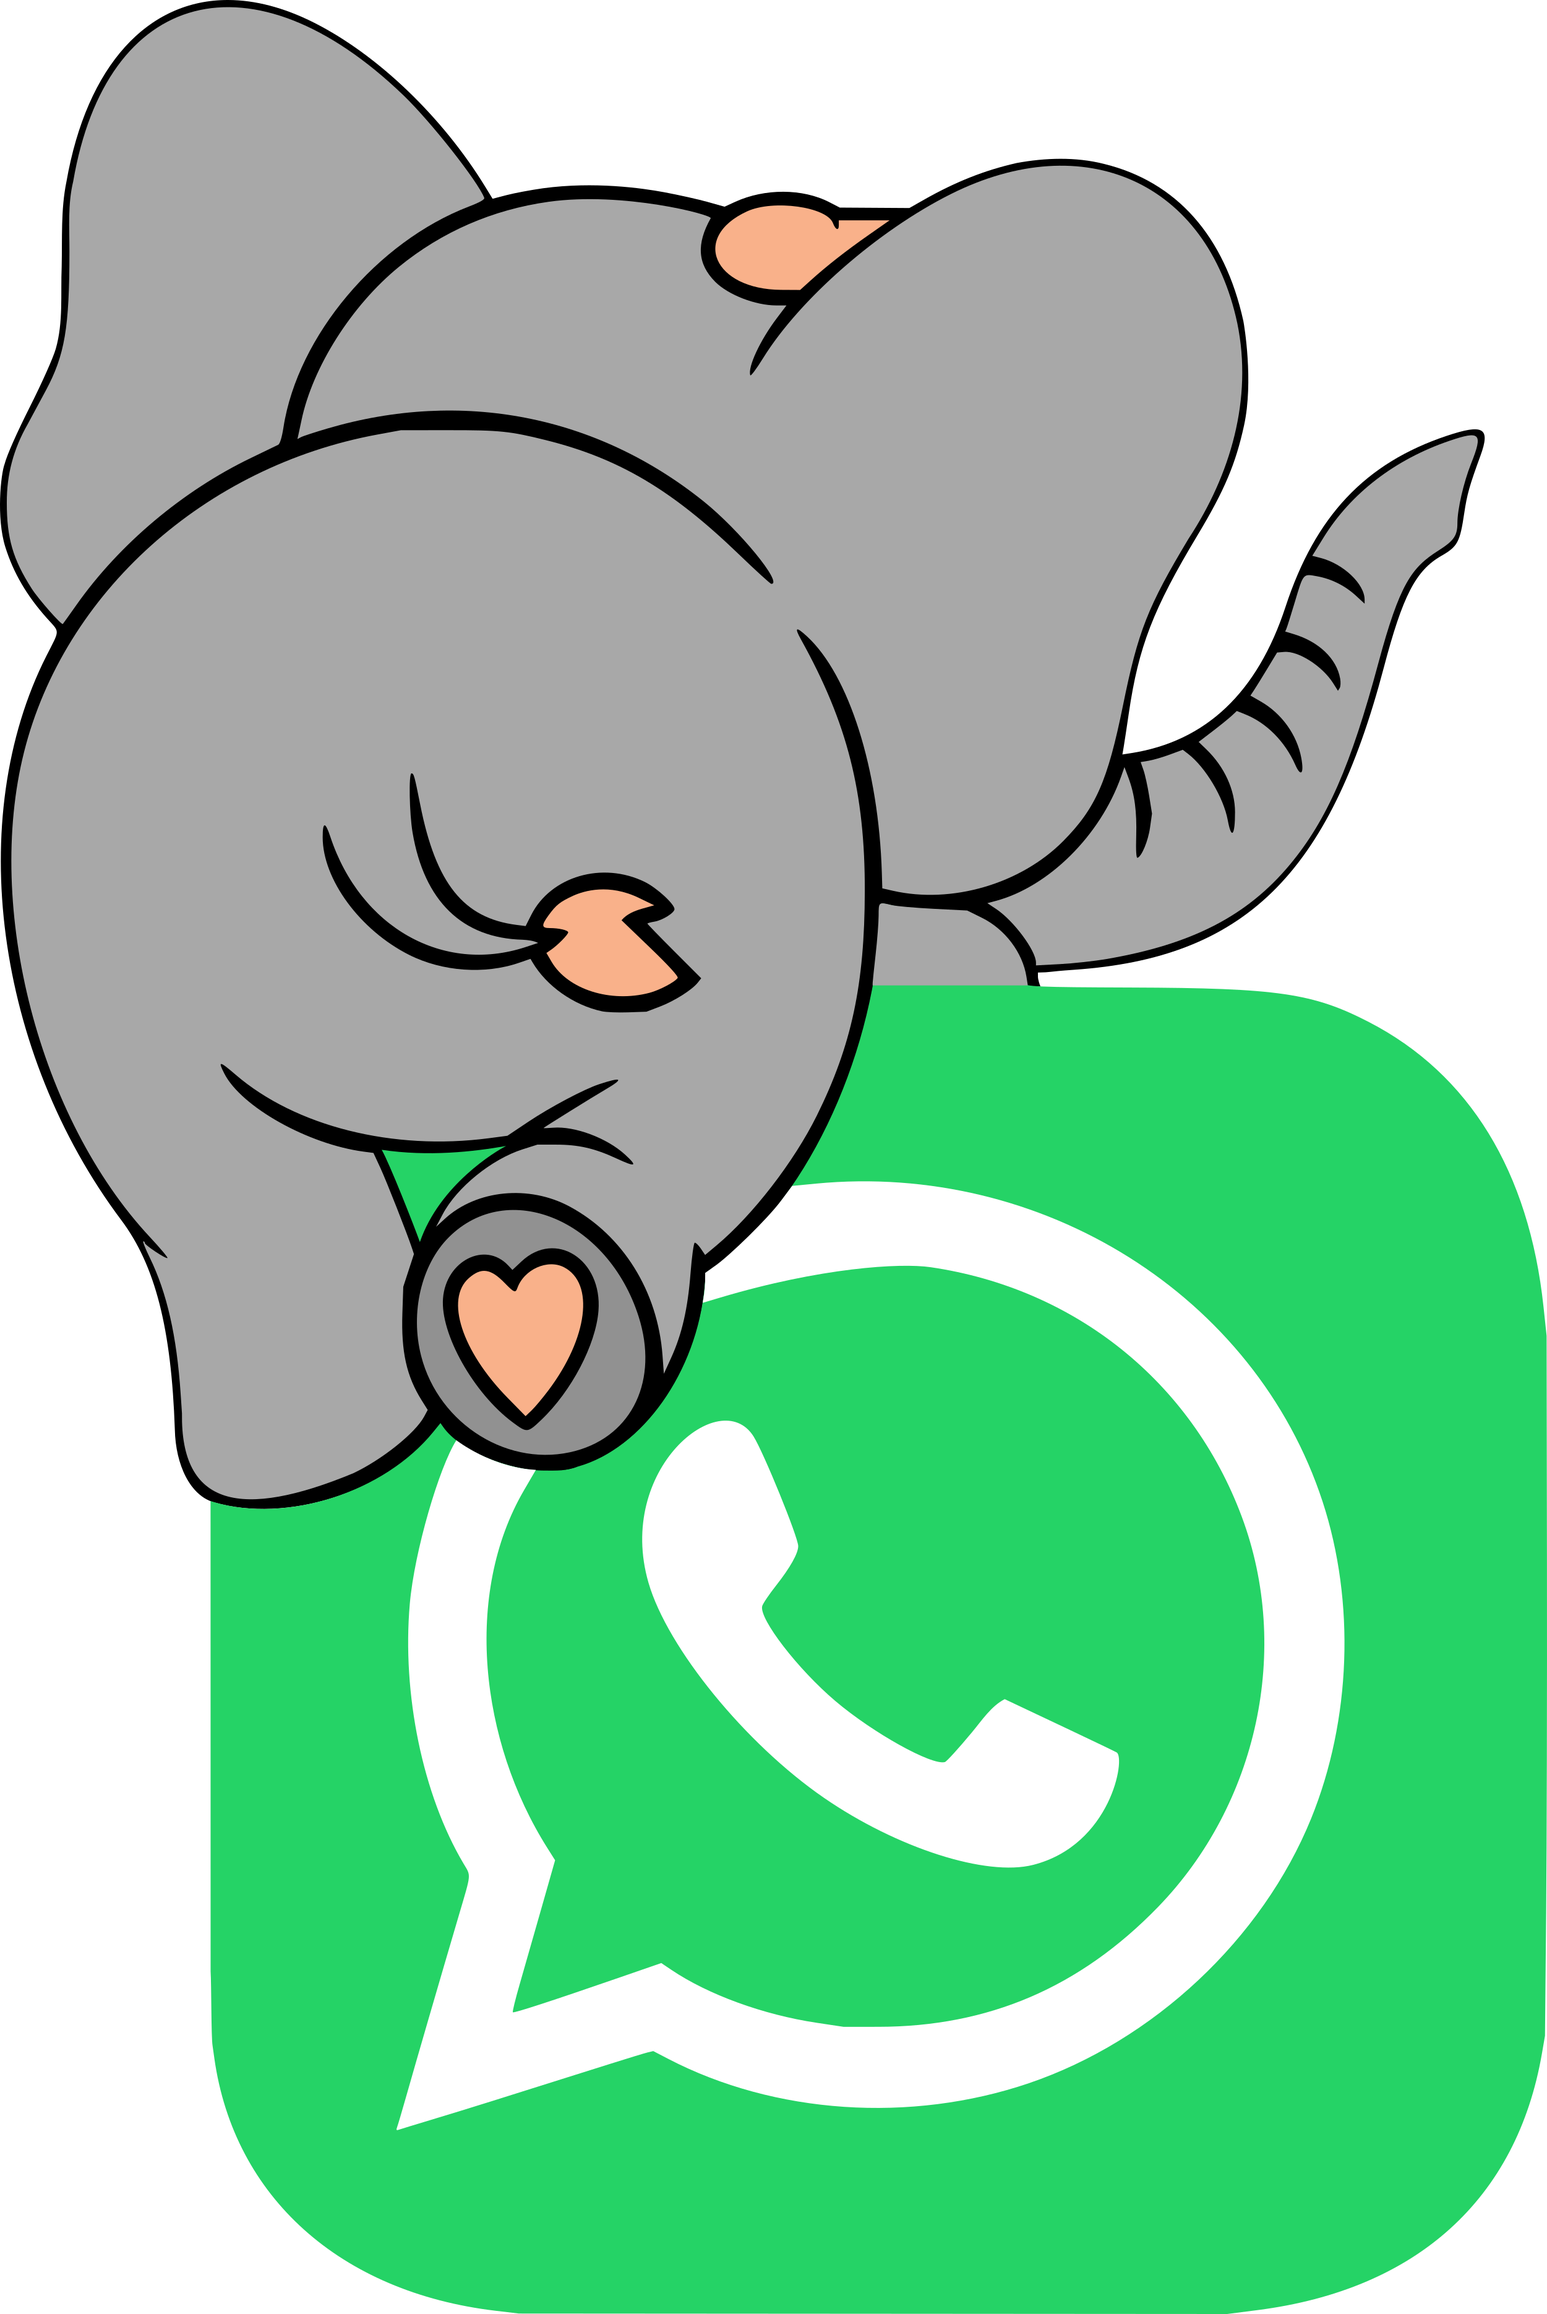
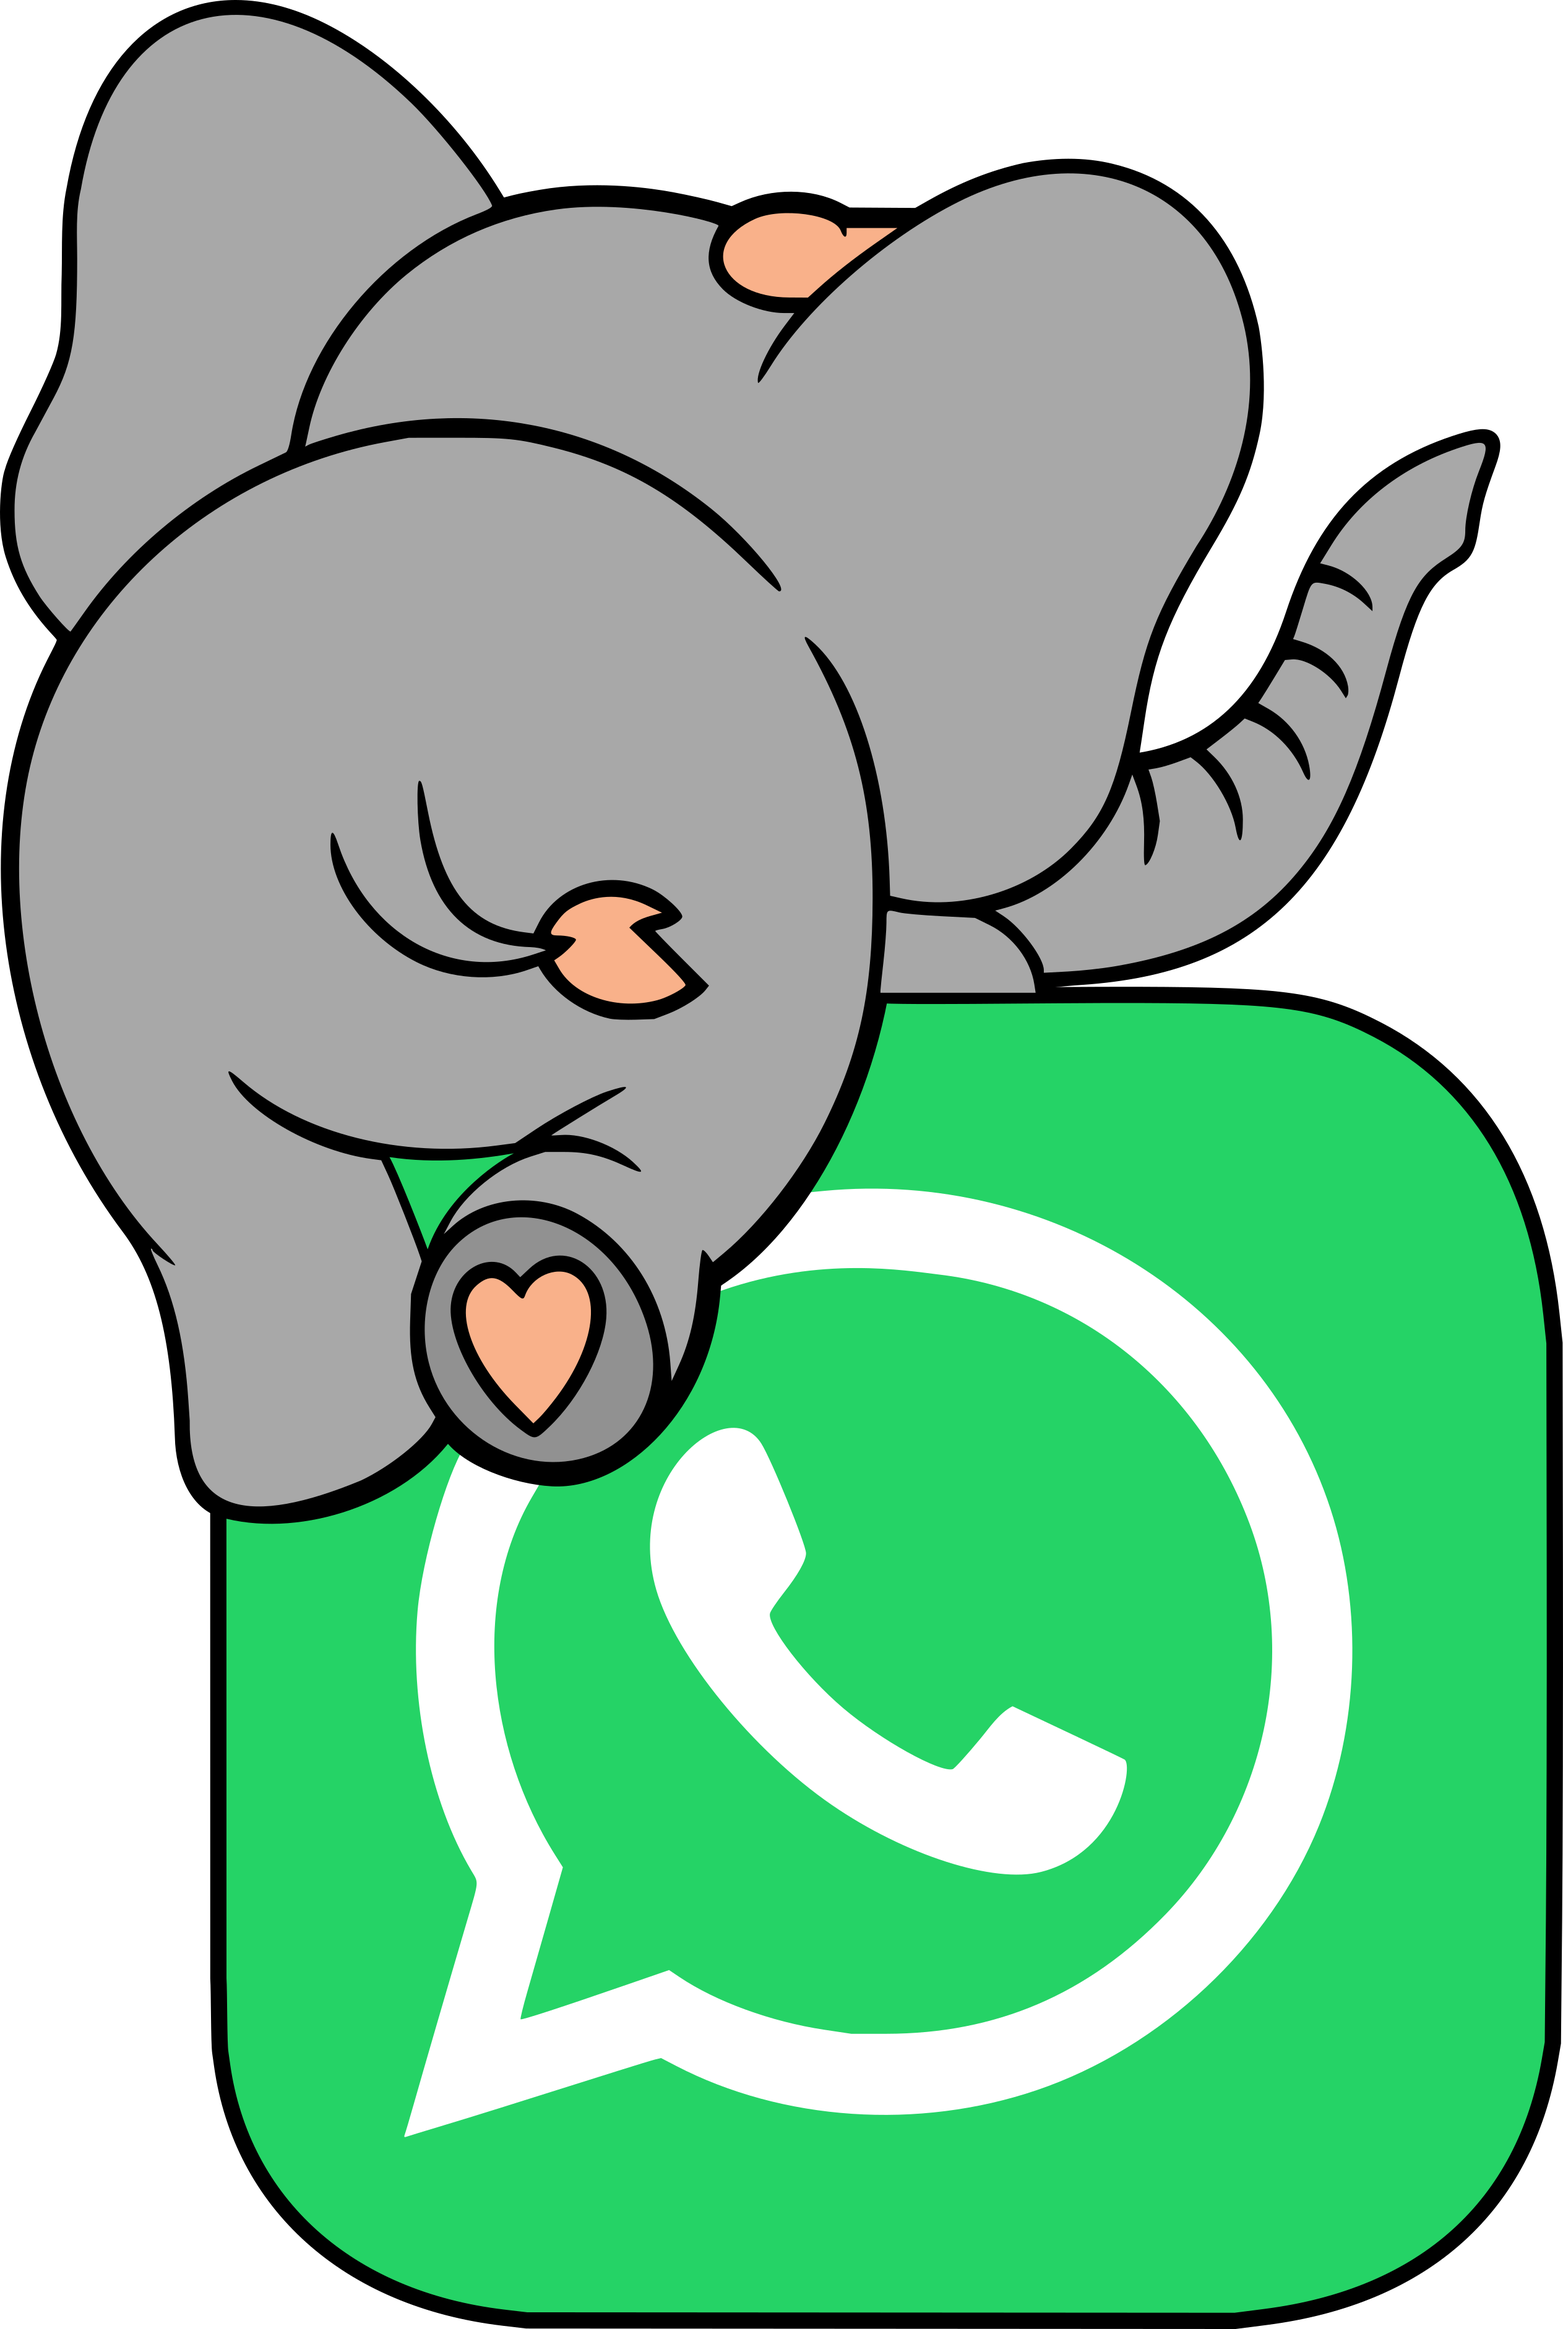
Refactor code structure for improved readability and maintainability

diff --git a/partials/footer.html b/partials/footer.html
@@ -24,15 +24,15 @@
         </p>
 
         <div class="social-list" aria-label="Social media">
-          <div class="soc-item">
+          <div class="soc-item linkedin">
             <a href="https://www.linkedin.com/in/ainsley-muller-95432251/" target="_blank" rel="noopener"
               aria-label="LinkedIn">
-              <img src="assets/images/Linkedin.png" alt="LinkedIn" width="32" height="32" loading="lazy">
+              <img src="assets/images/elephant_Linkedin.png" alt="LinkedIn" loading="lazy">
             </a>
           </div>
-          <div class="soc-item">
+          <div class="soc-item whatsapp">
             <a href="https://wa.me/612721616" target="_blank" rel="noopener" aria-label="WhatsApp">
-              <img src="assets/images/elephant_whatsapp.png" alt="WhatsApp" width="32" height="32" loading="lazy">
+              <img src="assets/images/elephant_whatsapp.png" alt="WhatsApp" loading="lazy">
             </a>
           </div>
         </div>

diff --git a/assets/css/custom.css b/assets/css/custom.css
@@ -313,14 +313,30 @@ a:hover {
   }
 }
 
-.social-list>.soc-item,
-.social-list .soc-item img,
-.social-list .soc-item a {
+/* Basis styling voor alle social items */
+.social-list .soc-item {
   display: inline-block;
-  width: 50px;
-  height: 100%;
+  text-align: center;
+  margin: 0 5px;
+}
+
+/* Basis styling voor alle iconen */
+.social-list .soc-item img {
+  display: block;
+  margin: 0 auto;
+  object-fit: contain;
   border-radius: 0% !important;
-  margin-top: 0;
+}
+
+/* Afzonderlijke groottes per type */
+.social-list .linkedin img {
+  width: 85px;
+  height: auto;
+}
+
+.social-list .whatsapp img {
+  width: 70px;
+  height: auto;
 }
 
 .cid-uThB3uFYeJ .links,
